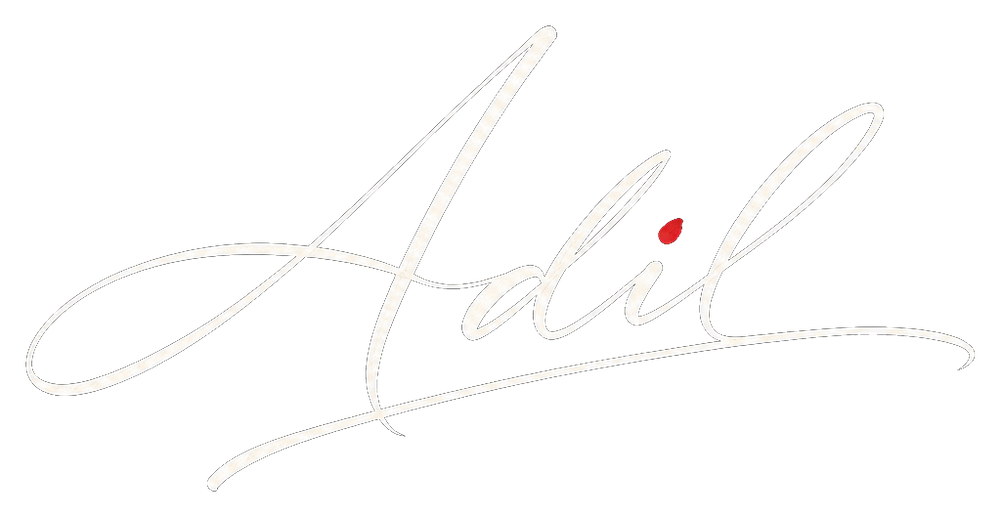
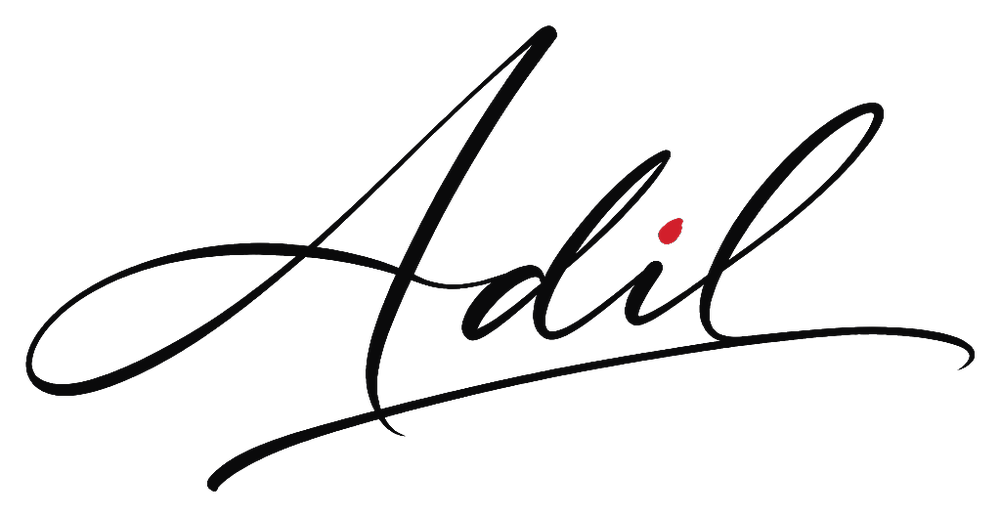
Portfolio site: intro film splash + single-page site (auto-published)

diff --git a/index.html b/index.html
@@ -17,7 +17,7 @@
 <meta name="twitter:description" content="AI learner • content creator • developer. Opens with a 28-second portfolio film.">
 <meta name="twitter:image" content="assets/thumbs/th-power.jpg">
 <link rel="preload" href="assets/fonts/Manrope-800.ttf" as="font" type="font/ttf" crossorigin>
-<link rel="stylesheet" href="assets/styles.css?v=17">
+<link rel="stylesheet" href="assets/styles.css?v=18">
 </head>
 <body class="locked">
 
@@ -110,7 +110,7 @@
         <li data-rv="up"><b>2025</b><h4>THE FALL &amp; THE LOOP</h4><p>First payout: $700. New money, old weakness — the discipline broke. Friends, films, wrong crowds, on-and-off work. A year looped, then bled into the next.</p></li>
         <li data-rv="up"><b>2026</b><h4>THE REBUILD</h4><p>AI unlocked the fun again. And on Oct 31, 2026: no more distractions — discipline, consistency, mehnat. A community for the serious ones is coming. Setup first. Then chaos.</p></li>
       </ol>
-      <img class="sig-img" src="assets/sig-adil.png?v=17" alt="Adil's signature" data-rv="up">
+      <img class="sig-img" src="assets/sig-adil.png?v=18" alt="Adil's signature" data-rv="up">
       <p class="mono sig-cap">— ADIL, PROBABLY AT 3 AM</p>
       <button class="letter-card" id="letterCard" data-rv="up" data-cursor="READ">
         <span class="seal" aria-hidden="true">A</span>

diff --git a/assets/styles.css b/assets/styles.css
@@ -571,6 +571,6 @@ body{overscroll-behavior-y:auto}
 @media(pointer:coarse){#grain{opacity:.035;animation-duration:3.2s}}
 
 /* ══ v17 AI SIGNATURE (approved) ═════════════════════════ */
-.sig-img{width:min(440px,74vw);height:auto;display:block;margin:10px 0 2px;animation:sigWipe 1.9s var(--ease) .25s both;filter:drop-shadow(0 8px 26px rgba(210,31,43,.18))}
+.sig-img{width:min(440px,74vw);height:auto;display:block;margin:14px auto 6px;animation:sigWipe 1.9s var(--ease) .25s both;filter:drop-shadow(0 10px 26px rgba(10,10,11,.14))}
 @keyframes sigWipe{from{clip-path:inset(0 100% 0 0);opacity:.35}to{clip-path:inset(0 0 0 0);opacity:1}}
 @media(prefers-reduced-motion:reduce){.sig-img{animation:none!important;clip-path:none!important}}
